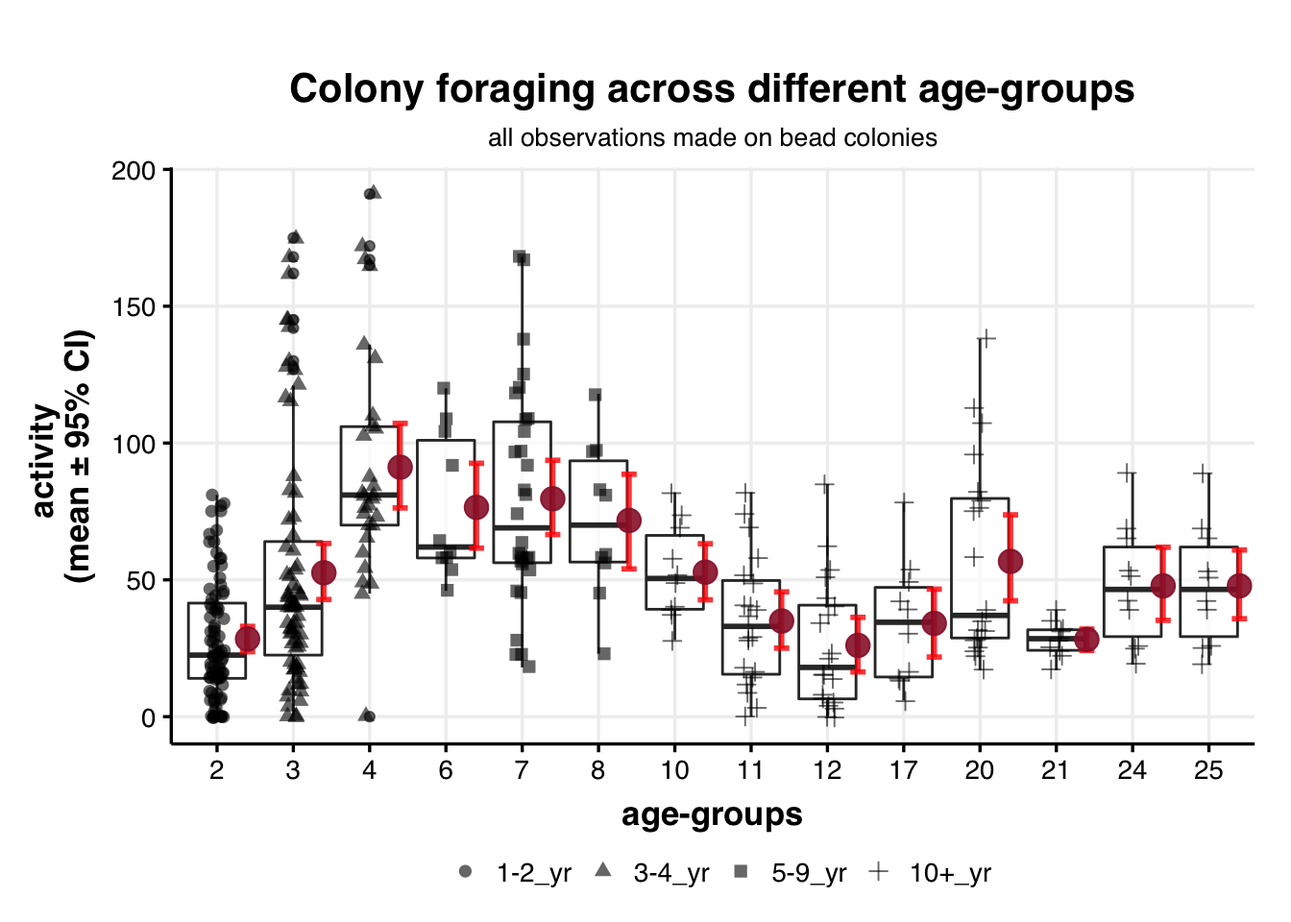
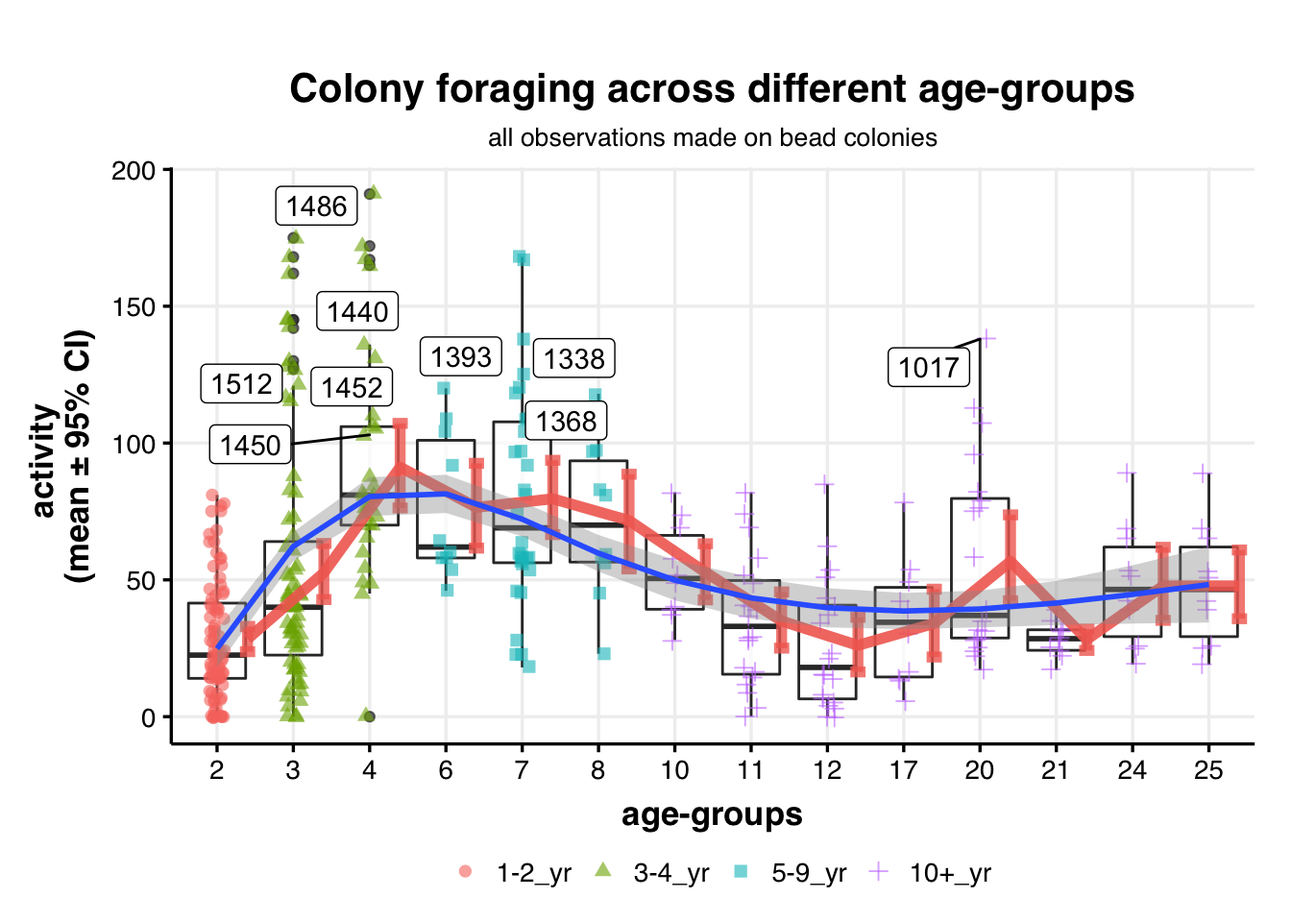
updated visualizations of foraging data

diff --git a/docs/bead_data_2022.html b/docs/bead_data_2022.html
@@ -443,7 +443,7 @@ div.tocify {
 
 
 <pre class="r"><code>## Set color scheme for age classes
-age_colors &lt;- c(&quot;#4EB9E6&quot;, &quot;#397362&quot;, &quot;#999215&quot;, &quot;#991D34&quot;, &quot;#F29544&quot;)</code></pre>
+age_colors &lt;- c(&quot;#8D72A1&quot;, &quot;#F26C7F&quot;, &quot;#FBAD73&quot;, &quot;#9CD5A2&quot;, &quot;#F29544&quot;)</code></pre>
 <div id="overviewgoals" class="section level2">
 <h2>Overview/Goals</h2>
 <p>Email from Deborah:</p>
@@ -1051,7 +1051,7 @@ for.dat &lt;-
 
 colnames(for.dat) &lt;- column.names
 
-tidy.for &lt;-
+tidy.for.2022 &lt;-
   for.dat %&gt;% 
   # remove columns containing first and second obs
   select(-first_obs, -second_obs, -was_it_raining) %&gt;% 
@@ -1081,8 +1081,8 @@ tidy.for &lt;-
          inout2,
          n_ants, tot_in, tot_out, everything())
 
-all.dates &lt;- tidy.for %&gt;% pull(date) %&gt;% na.omit() %&gt;% unique()
-date.max &lt;- tidy.for %&gt;% pull(date) %&gt;% na.omit() %&gt;% max()</code></pre>
+all.dates &lt;- tidy.for.2022 %&gt;% pull(date) %&gt;% na.omit() %&gt;% unique()
+date.max &lt;- tidy.for.2022 %&gt;% pull(date) %&gt;% na.omit() %&gt;% max()</code></pre>
 <p>The task is to obtain the foraging (in and out) data for each of the bead colonies, for the duration of the different experimental rounds.</p>
 <blockquote>
 <p>pink: 8/16/2022; green: 8/22/22; blue: 8/26/22</p>
@@ -1102,7 +1102,7 @@ bead.dates &lt;- data.frame(date = which.dates,
 bead.colonies &lt;- tidydat %&gt;% pull(colonyID) %&gt;% unique()
 which.day.obs &lt;- bead.dates %&gt;% mutate(date_obs = paste0(date, obs_day)) %&gt;% pull(date_obs)
 
-tidy.for %&lt;&gt;% 
+tidy.for &lt;- tidy.for.2022 %&gt;% 
   
   mutate(date = as.character(date)) %&gt;% 
   filter(date %in% unique(as.character(bead.dates$date))) %&gt;% 
@@ -1193,7 +1193,8 @@ s.tidydat &lt;-
                                        &quot;5-9_yr&quot;, &quot;10+_yr&quot;)))</code></pre>
 <div id="compare-foraging-across-age-class" class="section level3">
 <h3>Compare foraging across age-class</h3>
-<pre class="r"><code>s.tidydat %&gt;% 
+<pre class="r"><code>## Plot 1
+s.tidydat %&gt;% 
   select(colonyID, bead_color, age_obs, age_class, foraging_30s) %&gt;% 
   distinct() %&gt;%
   
@@ -1202,14 +1203,14 @@ s.tidydat &lt;-
   
   ggplot(aes(x=as.factor(age_obs), y=foraging_30s)) +
   
-  geom_violin(alpha=0.7) +
+  geom_boxplot(alpha=0.7, outlier.color = NA) +
     
     geom_jitter(width = 0.1, size=3, alpha=0.6, 
                 aes(fill=as.factor(colonyID)), 
                 shape=21) +
   
     
-    # facet_wrap(bead_color~., nrow = 2) +
+    geom_smooth(method = &quot;gam&quot;, aes(group=1)) +
     
     # stat_summary(fun = mean, geom = &quot;point&quot;, col=&quot;black&quot;,
     #              size=10, alpha=0.8,
@@ -1235,7 +1236,8 @@ s.tidydat &lt;-
           legend.title = element_blank()) +
     theme(legend.position=&quot;bottom&quot;)</code></pre>
 <p><img src="bead_data_2022_files/figure-html/plot_foraging_ageclass-1.png" width="672" /></p>
-<pre class="r"><code>which.colonies &lt;- s.tidydat %&gt;% select(colonyID, age_obs, age_class) %&gt;% distinct()
+<pre class="r"><code>## Plot 2
+which.colonies &lt;- s.tidydat %&gt;% select(colonyID, age_obs, age_class) %&gt;% distinct()
 
 tidy.for %&gt;% 
   select(date, colonyID=colony_ID, foraging_30s) %&gt;% 
@@ -1246,20 +1248,21 @@ tidy.for %&gt;%
   geom_boxplot(alpha=0.7) +
     
     geom_jitter(width = 0.1, size=2, alpha=0.6, 
-                aes(shape=as.factor(age_class))) +
+                aes(shape=as.factor(age_class), col=as.factor(age_class))) +
   
     
-    # facet_wrap(bead_color~., nrow = 2) +
-    
-  stat_summary(fun.data = mean_cl_boot,
-                 col=&quot;red&quot;,
-                 size=1, alpha = 0.8,
+    stat_summary(fun.data = mean_cl_boot,
+                 col=&quot;#F26C60&quot;,
+                 size=2, alpha = 0.8,
                  geom = &quot;errorbar&quot;, width = 0.2, fun.args = list(conf.int = 0.95),
                  position=position_nudge(x = 0.4, y = 0)) +
-  stat_summary(fun = mean, geom = &quot;point&quot;, 
-               col=age_colors[4],
-                 size=4, alpha=0.9,
+  stat_summary(fun = mean, geom = &quot;line&quot;, 
+               aes(group=1),
+               col=&quot;#F26C60&quot;,
+                 size=2, alpha=0.9,
                  position=position_nudge(x = 0.4, y = 0)) +
+  # geom_smooth(method = &quot;gam&quot;, aes(group=1)) +
+  geom_smooth(method = &quot;gam&quot;, aes(group=1), formula = y ~ splines::ns(x, 3)) +
 
     theme_Publication(base_size = 13) +
 
@@ -1272,11 +1275,82 @@ tidy.for %&gt;%
     # scale_fill_discrete() +
 
     # theme(legend.position=&quot;none&quot;) +
-
     theme(plot.subtitle=element_text(hjust=0.5, size=10),
           legend.title = element_blank()) +
-    theme(legend.position=&quot;bottom&quot;)</code></pre>
+    theme(legend.position=&quot;bottom&quot;) +
+  
+    ## add text labels
+    ggrepel::geom_label_repel(data = . %&gt;% 
+                    mutate(label = ifelse(foraging_30s &gt; 100,
+                                          colonyID, &quot;&quot;)) %&gt;% 
+                    group_by(colonyID) %&gt;% 
+                    mutate_at(vars(label), funs(replace(., duplicated(.), &quot;&quot;))),
+                    force = 11,
+                    aes(label = label), 
+                    box.padding = 0.3,
+                    show.legend = FALSE)</code></pre>
 <p><img src="bead_data_2022_files/figure-html/plot_foraging_ageclass-2.png" width="672" /></p>
+<pre class="r"><code>## Plot 3
+tidy.for.2022 %&gt;% 
+  mutate(colony_ID = as.numeric(as.character(colony_ID))) %&gt;% 
+  right_join(colony.dat %&gt;% select(colony_ID = colonyID, age_2022)) %&gt;% 
+  na.omit() %&gt;% 
+  mutate(age_obs = age_2022) %&gt;% 
+  mutate(age_class = ifelse(age_obs &lt;= 2, &quot;1-2_yr&quot;,
+                            ifelse(age_obs &gt; 2 &amp; age_obs &lt;= 4, &quot;3-4_yr&quot;,
+                                   ifelse(age_obs &gt;=5 &amp; age_obs &lt; 10, &quot;5-9_yr&quot;,
+                                                 &quot;10+_yr&quot;)))) %&gt;% 
+  mutate(age_class = factor(age_class, 
+                            levels = c(&quot;1-2_yr&quot;, &quot;3-4_yr&quot;,
+                                       &quot;5-9_yr&quot;, &quot;10+_yr&quot;))) %&gt;% 
+  
+  ## test labels
+  # mutate(label = ifelse(foraging_30s &gt; 200,
+  #                                         colony_ID, &quot;&quot;)) %&gt;% 
+  #                   group_by(colony_ID) %&gt;%
+  #                   mutate_at(vars(label), funs(replace(., duplicated(.), &quot;&quot;)))
+  
+  # mutate(foraging_30s = log2(foraging_30s+1)) %&gt;% 
+  
+  ggplot(aes(x=as.factor(age_obs), y=foraging_30s)) +
+  geom_boxplot(alpha=0.4, fill=&quot;#C5E4BA&quot;) +
+  geom_jitter(width = 0.2, size=1, alpha=0.2, 
+                aes(shape=as.factor(age_class), col=as.factor(age_class))) +
+  stat_summary(fun.data = mean_cl_boot,
+                 col=&quot;#F26C60&quot;,
+                 size=2, alpha = 0.8,
+                 geom = &quot;errorbar&quot;, width = 0.2, fun.args = list(conf.int = 0.95),
+                 position=position_nudge(x = 0.4, y = 0)) +
+  stat_summary(fun = mean, geom = &quot;line&quot;, 
+               aes(group=1),
+               col=&quot;#F26C60&quot;,
+                 size=2, alpha=0.9,
+                 position=position_nudge(x = 0.4, y = 0)) +
+  geom_smooth(method = &quot;gam&quot;, aes(group=1)) +
+    theme_Publication(base_size = 13) +
+    labs(title = &quot;Colony foraging across different age-groups&quot;,
+       subtitle = &quot;all observations of colony foraging in 2022&quot;,
+       y = &quot;activity \n(mean ± 95% CI)&quot;,
+       x = &quot;age-groups&quot;,
+       caption = &quot;red line indicates mean ± 95% CI; \nblue line shows a GAM fit; \nlabels indicate colonies with activity more than 150 ants/30 secs&quot;) +
+    # ylim(c(0,200)) +
+    theme(plot.subtitle=element_text(hjust=0.5, size=10),
+          plot.caption = element_text(hjust=1, size=10),
+          legend.title = element_blank()) +
+    theme(legend.position=&quot;bottom&quot;) +
+  
+    ## add text labels
+    ggrepel::geom_label_repel(data = . %&gt;% 
+                    mutate(label = ifelse(foraging_30s &gt; 150,
+                                          colony_ID, &quot;&quot;)) %&gt;% 
+                    group_by(colony_ID) %&gt;% 
+                    mutate_at(vars(label), funs(replace(., duplicated(.), &quot;&quot;))),
+                    force = 1,
+                    size=2.5,
+                    aes(label = label), 
+                    box.padding = 0.3,
+                    show.legend = FALSE)</code></pre>
+<p><img src="bead_data_2022_files/figure-html/plot_foraging_ageclass-3.png" width="672" /></p>
 </div>
 <div id="plot-normalized-bead-returns" class="section level3">
 <h3>Plot normalized bead returns</h3>
@@ -1387,6 +1461,81 @@ s.tidydat %&gt;%
        caption = &quot;Note
        data shown for all three rounds of bead experiment&quot;)</code></pre>
 <p><img src="bead_data_2022_files/figure-html/plot_normalized_bead_returns-3.png" width="672" /></p>
+<blockquote>
+<p>I am wondering how would it look if I plot the curves for each age.</p>
+</blockquote>
+<pre class="r"><code>s.tidydat %&gt;% 
+  
+  # ## remove the timepoints that we do not have data for  
+  # filter(!(bead_color==&quot;pink&quot; &amp; counted_when == &quot;D1_aN&quot;)) %&gt;%
+  # filter(!(bead_color==&quot;green&quot; &amp; counted_when == &quot;D3_bN&quot;)) %&gt;%
+  
+  ggplot(aes(x=counted_when, y=s_cum_prop, 
+             fill=as.factor(age_obs), color=as.factor(age_obs), group=as.factor(age_obs))) +
+  geom_jitter(size=2, alpha=0.4, width = 0.2) +
+  # geom_line(aes(group=colonyID), size=0.5, alpha=0.7) +
+  # geom_boxplot(alpha=0.3, aes(group=age_class)) +
+  # geom_violin(alpha=0.3) +
+  # geom_smooth(method = &quot;gam&quot;, formula=y~s(x, k=5)) +
+  geom_smooth(method = &quot;lm&quot;, formula = y~log2(x+1), 
+              alpha=0.4, size = 2,
+              aes(color=as.factor(age_obs))) +
+  
+  facet_grid(~age_class) +
+  # coord_flip() +
+  # scale_y_continuous(n.breaks = 3, labels = c(&quot;&quot;,&quot;0.5&quot;, &quot;1&quot;)) +
+  
+  theme_Publication(base_size = 15) +
+  # rotate x-axis lables
+  theme(axis.text.x=element_text(angle=90,hjust=1))+
+  
+  scale_fill_viridis_d() +
+  scale_color_viridis_d() +
+  
+  labs(x = &quot;Day-time of observation&quot;,
+       y= &quot;cumulative proportion \nof beads returned&quot;,
+       subtitle = &quot;Line indicates y ~ log2(x+1) + 95% CI&quot;,
+       caption = &quot;Note
+       data shown for all three rounds of bead experiment&quot;)</code></pre>
+<p><img src="bead_data_2022_files/figure-html/plot_with_age-1.png" width="672" /></p>
+<blockquote>
+<p>What about colony variation withih each age-class</p>
+</blockquote>
+<pre class="r"><code>s.tidydat %&gt;% 
+  
+  # ## remove the timepoints that we do not have data for  
+  # filter(!(bead_color==&quot;pink&quot; &amp; counted_when == &quot;D1_aN&quot;)) %&gt;%
+  # filter(!(bead_color==&quot;green&quot; &amp; counted_when == &quot;D3_bN&quot;)) %&gt;%
+  
+  ggplot(aes(x=counted_when, y=s_cum_prop, 
+             fill=as.factor(colonyID), color=as.factor(colonyID), group=as.factor(colonyID))) +
+  geom_jitter(size=2, alpha=0.4, width = 0.2) +
+  # geom_line(aes(group=colonyID), size=0.5, alpha=0.7) +
+  # geom_boxplot(alpha=0.3, aes(group=age_class)) +
+  # geom_violin(alpha=0.3) +
+  # geom_smooth(method = &quot;gam&quot;, formula=y~s(x, k=5)) +
+  geom_smooth(method = &quot;lm&quot;, formula = y~log2(x+1), 
+              alpha=0.4, size = 2,
+              aes(color=as.factor(colonyID))) +
+  
+  facet_grid(~age_class) +
+  # coord_flip() +
+  # scale_y_continuous(n.breaks = 3, labels = c(&quot;&quot;,&quot;0.5&quot;, &quot;1&quot;)) +
+  
+  theme_Publication(base_size = 15) +
+  # rotate x-axis lables
+  theme(axis.text.x=element_text(angle=90,hjust=1))+
+  
+  scale_fill_viridis_d() +
+  scale_color_viridis_d() +
+  
+  labs(x = &quot;Day-time of observation&quot;,
+       y= &quot;cumulative proportion \nof beads returned&quot;,
+       subtitle = &quot;Line indicates y ~ log2(x+1) + 95% CI&quot;,
+       caption = &quot;Note
+       data shown for all three rounds of bead experiment&quot;)</code></pre>
+<p><img src="bead_data_2022_files/figure-html/plot_with_age_2-1.png" width="672" /></p>
+<hr />
 </div>
 </div>
 <div id="prelim-analyses-i" class="section level2">
@@ -1449,8 +1598,8 @@ afex::mixed(log_s_cum_prop ~ age_class + counted_when + (1|colonyID) + (1|bead_c
 <pre class="r"><code>s.tidydat %&gt;% 
   select(colonyID, age_obs, bead_color, date, counted_when, cum_prop, s_cum_prop) %&gt;% 
   DT::datatable(rownames = F)</code></pre>
-<div id="htmlwidget-c10230ad0bd027ecd31b" style="width:100%;height:auto;" class="datatables html-widget"></div>
-<script type="application/json" data-for="htmlwidget-c10230ad0bd027ecd31b">{"x":{"filter":"none","data":[["810","810","810","810","810","810","922","922","922","922","922","922","961","961","961","969","969","969","1131","1131","1131","1131","1131","1131","1288","1288","1288","1338","1338","1338","1368","1368","1368","1393","1393","1393","1581","1581","1581","1581","1587","1587","1587","1587","1570","1570","1570","1570","1541","1541","1541","1541","1542","1542","1542","1542","1571","1571","1571","1571","1536","1536","1536","1536","1536","1536","1536","1536","1587","1587","1587","1587","1587","1570","1570","1570","1570","1570","1541","1541","1541","1541","1541","1542","1542","1542","1542","1542","1533","1533","1533","1533","1533","1552","1552","1552","1552","1552","1581","1581","1581","1581","1581","1587","1587","1587","1587","1587","1541","1541","1541","1541","1541","1542","1542","1542","1542","1542","1536","1536","1536","1536","1536","1533","1533","1533","1533","1533","1504","1504","1504","1504","1506","1506","1506","1506","1512","1512","1512","1512","1559","1559","1559","1559","1486","1486","1486","1486","1504","1504","1504","1504","1504","1506","1506","1506","1506","1506","1512","1512","1512","1512","1512","1559","1559","1559","1559","1559","1486","1486","1486","1486","1486","1503","1503","1503","1503","1503","1512","1512","1512","1512","1512","1559","1559","1559","1559","1559","1546","1546","1546","1546","1546","1486","1486","1486","1486","1486","1503","1503","1503","1503","1503","1452","1452","1452","1452","1450","1450","1450","1450","1440","1440","1440","1440","1452","1452","1452","1452","1452","1450","1450","1450","1450","1450","1452","1452","1452","1452","1452","1450","1450","1450","1450","1450","1440","1440","1440","1440","1440","1393","1393","1393","1393","1393","1393","1393","1393","1393","1393","1368","1368","1368","1368","1368","1368","1368","1368","1368","1368","1368","1368","1368","1368","1288","1288","1288","1288","1317","1317","1317","1317","1317","1288","1288","1288","1288","1288","1233","1233","1233","1233","1242","1242","1242","1242","1233","1233","1233","1233","1233","1242","1242","1242","1242","1242","1233","1233","1233","1233","1233","1242","1242","1242","1242","1242","1107","1107","1107","1107","1107","1107","1107","1107","1107","1017","1017","1017","1017","1017","1017","1017","1017","1017","1017","1131","1131","1131","1131","1131","1131","1131","1131","1131","810","810","810","810","810","810","810","810","810","810","810","810","810","810"],[24,24,24,24,24,24,21,21,21,21,21,21,21,21,21,21,21,21,20,20,20,20,20,20,10,10,10,7,7,7,7,7,7,6,6,6,2,2,2,2,2,2,2,2,2,2,2,2,2,2,2,2,2,2,2,2,2,2,2,2,2,2,2,2,2,2,2,2,2,2,2,2,2,2,2,2,2,2,2,2,2,2,2,2,2,2,2,2,2,2,2,2,2,2,2,2,2,2,2,2,2,2,2,2,2,2,2,2,2,2,2,2,2,2,2,2,2,2,2,2,2,2,2,2,2,2,2,2,3,3,3,3,3,3,3,3,3,3,3,3,3,3,3,3,3,3,3,3,3,3,3,3,3,3,3,3,3,3,3,3,3,3,3,3,3,3,3,3,3,3,3,3,3,3,3,3,3,3,3,3,3,3,3,3,3,3,3,3,3,3,3,3,3,3,3,3,3,3,3,3,3,3,3,4,4,4,4,4,4,4,4,4,4,4,4,4,4,4,4,4,4,4,4,4,4,4,4,4,4,4,4,4,4,4,4,4,4,4,4,4,7,7,7,7,7,7,7,7,7,7,8,8,8,8,8,8,8,8,8,8,8,8,8,8,11,11,11,11,11,11,11,11,11,11,11,11,11,11,12,12,12,12,12,12,12,12,12,12,12,12,12,12,12,12,12,12,12,12,12,12,12,12,12,12,12,12,17,17,17,17,17,17,17,17,17,20,20,20,20,20,20,20,20,20,20,21,21,21,21,21,21,21,21,21,25,25,25,25,25,25,25,25,25,25,25,25,25,25],["green-21","green-21","green-21","pink-21","pink-21","pink-21","green-21","green-21","green-21","pink-21","pink-21","pink-21","green-21","green-21","green-21","green-21","green-21","green-21","green-21","green-21","green-21","pink-21","pink-21","pink-21","pink-21","pink-21","pink-21","green-21","green-21","green-21","pink-21","pink-21","pink-21","green-21","green-21","green-21","pink","pink","pink","pink","pink","pink","pink","pink","pink","pink","pink","pink","pink","pink","pink","pink","pink","pink","pink","pink","pink","pink","pink","pink","pink","pink","pink","pink","pink","pink","pink","pink","green","green","green","green","green","green","green","green","green","green","green","green","green","green","green","green","green","green","green","green","green","green","green","green","green","blue","blue","blue","blue","blue","blue","blue","blue","blue","blue","blue","blue","blue","blue","blue","blue","blue","blue","blue","blue","blue","blue","blue","blue","blue","blue","blue","blue","blue","blue","blue","blue","blue","blue","blue","pink","pink","pink","pink","pink","pink","pink","pink","pink","pink","pink","pink","pink","pink","pink","pink","pink","pink","pink","pink","green","green","green","green","green","green","green","green","green","green","green","green","green","green","green","green","green","green","green","green","green","green","green","green","green","green","green","green","green","green","blue","blue","blue","blue","blue","blue","blue","blue","blue","blue","blue","blue","blue","blue","blue","blue","blue","blue","blue","blue","blue","blue","blue","blue","blue","pink","pink","pink","pink","pink","pink","pink","pink","pink","pink","pink","pink","green","green","green","green","green","green","green","green","green","green","blue","blue","blue","blue","blue","blue","blue","blue","blue","blue","blue","blue","blue","blue","blue","green","green","green","green","green","blue","blue","blue","blue","blue","pink","pink","pink","pink","green","green","green","green","green","blue","blue","blue","blue","blue","pink","pink","pink","pink","blue","blue","blue","blue","blue","blue","blue","blue","blue","blue","pink","pink","pink","pink","pink","pink","pink","pink","green","green","green","green","green","green","green","green","green","green","blue","blue","blue","blue","blue","blue","blue","blue","blue","blue","pink","pink","pink","pink","green","green","green","green","green","green","green","green","green","green","blue","blue","blue","blue","blue","pink","pink","pink","pink","green","green","green","green","green","pink","pink","pink","pink","green","green","green","green","green","blue","blue","blue","blue","blue"],["2021-08-24","2021-08-25","2021-08-26","2021-08-26","2021-08-27","2021-08-28","2021-08-23","2021-08-24","2021-08-25","2021-08-25","2021-08-26","2021-08-27","2021-08-24","2021-08-25","2021-08-26","2021-08-24","2021-08-25","2021-08-26","2021-08-23","2021-08-24","2021-08-25","2021-08-25","2021-08-26","2021-08-27","2021-08-26","2021-08-27","2021-08-28","2021-08-23","2021-08-24","2021-08-25","2021-08-25","2021-08-26","2021-08-27","2021-08-23","2021-08-24","2021-08-25","2022-08-16","2022-08-16","2022-08-16","2022-08-16","2022-08-16","2022-08-16","2022-08-16","2022-08-16","2022-08-16","2022-08-16","2022-08-16","2022-08-16","2022-08-16","2022-08-16","2022-08-16","2022-08-16","2022-08-16","2022-08-16","2022-08-16","2022-08-16","2022-08-16","2022-08-16","2022-08-16","2022-08-16","2022-08-16","2022-08-16","2022-08-16","2022-08-16","2022-08-16","2022-08-16","2022-08-16","2022-08-16","2022-08-22","2022-08-22","2022-08-22","2022-08-22","2022-08-22","2022-08-22","2022-08-22","2022-08-22","2022-08-22","2022-08-22","2022-08-22","2022-08-22","2022-08-22","2022-08-22","2022-08-22","2022-08-22","2022-08-22","2022-08-22","2022-08-22","2022-08-22","2022-08-22","2022-08-22","2022-08-22","2022-08-22","2022-08-22","2022-08-26","2022-08-26","2022-08-26","2022-08-26","2022-08-26","2022-08-26","2022-08-26","2022-08-26","2022-08-26","2022-08-26","2022-08-26","2022-08-26","2022-08-26","2022-08-26","2022-08-26","2022-08-26","2022-08-26","2022-08-26","2022-08-26","2022-08-26","2022-08-26","2022-08-26","2022-08-26","2022-08-26","2022-08-26","2022-08-26","2022-08-26","2022-08-26","2022-08-26","2022-08-26","2022-08-26","2022-08-26","2022-08-26","2022-08-26","2022-08-26","2022-08-16","2022-08-16","2022-08-16","2022-08-16","2022-08-16","2022-08-16","2022-08-16","2022-08-16","2022-08-16","2022-08-16","2022-08-16","2022-08-16","2022-08-16","2022-08-16","2022-08-16","2022-08-16","2022-08-16","2022-08-16","2022-08-16","2022-08-16","2022-08-22","2022-08-22","2022-08-22","2022-08-22","2022-08-22","2022-08-22","2022-08-22","2022-08-22","2022-08-22","2022-08-22","2022-08-22","2022-08-22","2022-08-22","2022-08-22","2022-08-22","2022-08-22","2022-08-22","2022-08-22","2022-08-22","2022-08-22","2022-08-22","2022-08-22","2022-08-22","2022-08-22","2022-08-22","2022-08-22","2022-08-22","2022-08-22","2022-08-22","2022-08-22","2022-08-26","2022-08-26","2022-08-26","2022-08-26","2022-08-26","2022-08-26","2022-08-26","2022-08-26","2022-08-26","2022-08-26","2022-08-26","2022-08-26","2022-08-26","2022-08-26","2022-08-26","2022-08-26","2022-08-26","2022-08-26","2022-08-26","2022-08-26","2022-08-26","2022-08-26","2022-08-26","2022-08-26","2022-08-26","2022-08-16","2022-08-16","2022-08-16","2022-08-16","2022-08-16","2022-08-16","2022-08-16","2022-08-16","2022-08-16","2022-08-16","2022-08-16","2022-08-16","2022-08-22","2022-08-22","2022-08-22","2022-08-22","2022-08-22","2022-08-22","2022-08-22","2022-08-22","2022-08-22","2022-08-22","2022-08-26","2022-08-26","2022-08-26","2022-08-26","2022-08-26","2022-08-26","2022-08-26","2022-08-26","2022-08-26","2022-08-26","2022-08-26","2022-08-26","2022-08-26","2022-08-26","2022-08-26","2022-08-22","2022-08-22","2022-08-22","2022-08-22","2022-08-22","2022-08-26","2022-08-26","2022-08-26","2022-08-26","2022-08-26","2022-08-16","2022-08-16","2022-08-16","2022-08-16","2022-08-22","2022-08-22","2022-08-22","2022-08-22","2022-08-22","2022-08-26","2022-08-26","2022-08-26","2022-08-26","2022-08-26","2022-08-16","2022-08-16","2022-08-16","2022-08-16","2022-08-26","2022-08-26","2022-08-26","2022-08-26","2022-08-26","2022-08-26","2022-08-26","2022-08-26","2022-08-26","2022-08-26","2022-08-16","2022-08-16","2022-08-16","2022-08-16","2022-08-16","2022-08-16","2022-08-16","2022-08-16","2022-08-22","2022-08-22","2022-08-22","2022-08-22","2022-08-22","2022-08-22","2022-08-22","2022-08-22","2022-08-22","2022-08-22","2022-08-26","2022-08-26","2022-08-26","2022-08-26","2022-08-26","2022-08-26","2022-08-26","2022-08-26","2022-08-26","2022-08-26","2022-08-16","2022-08-16","2022-08-16","2022-08-16","2022-08-22","2022-08-22","2022-08-22","2022-08-22","2022-08-22","2022-08-22","2022-08-22","2022-08-22","2022-08-22","2022-08-22","2022-08-26","2022-08-26","2022-08-26","2022-08-26","2022-08-26","2022-08-16","2022-08-16","2022-08-16","2022-08-16","2022-08-22","2022-08-22","2022-08-22","2022-08-22","2022-08-22","2022-08-16","2022-08-16","2022-08-16","2022-08-16","2022-08-22","2022-08-22","2022-08-22","2022-08-22","2022-08-22","2022-08-26","2022-08-26","2022-08-26","2022-08-26","2022-08-26"],["D1_bN","D2_bN","D3_bN","D1_bN","D2_bN","D3_bN","D1_bN","D2_bN","D3_bN","D1_bN","D2_bN","D3_bN","D1_bN","D2_bN","D3_bN","D1_bN","D2_bN","D3_bN","D1_bN","D2_bN","D3_bN","D1_bN","D2_bN","D3_bN","D1_bN","D2_bN","D3_bN","D1_bN","D2_bN","D3_bN","D1_bN","D2_bN","D3_bN","D1_bN","D2_bN","D3_bN","D1_bN","D2_M","D2_bN","D3_bN","D1_bN","D2_M","D2_bN","D3_bN","D1_bN","D2_M","D2_bN","D3_bN","D1_bN","D2_M","D2_bN","D3_bN","D1_bN","D2_M","D2_bN","D3_bN","D1_bN","D2_M","D2_bN","D3_bN","D1_bN","D1_bN","D2_M","D2_M","D2_bN","D2_bN","D3_bN","D3_bN","D1_bN","D1_aN","D2_M","D2_bN","D4_bN","D1_bN","D1_aN","D2_M","D2_bN","D4_bN","D1_bN","D1_aN","D2_M","D2_bN","D4_bN","D1_bN","D1_aN","D2_M","D2_bN","D4_bN","D1_bN","D1_aN","D2_M","D2_bN","D4_bN","D1_bN","D2_M","D2_aN","D3_bN","D4_M","D1_bN","D2_M","D2_aN","D3_bN","D4_M","D1_bN","D2_M","D2_aN","D3_bN","D4_M","D1_bN","D2_M","D2_aN","D3_bN","D4_M","D1_bN","D2_M","D2_aN","D3_bN","D4_M","D1_bN","D2_M","D2_aN","D3_bN","D4_M","D1_bN","D2_M","D2_aN","D3_bN","D4_M","D1_bN","D2_M","D2_bN","D3_bN","D1_bN","D2_M","D2_bN","D3_bN","D1_bN","D2_M","D2_bN","D3_bN","D1_bN","D2_M","D2_bN","D3_bN","D1_bN","D2_M","D2_bN","D3_bN","D1_bN","D1_aN","D2_M","D2_bN","D4_bN","D1_bN","D1_aN","D2_M","D2_bN","D4_bN","D1_bN","D1_aN","D2_M","D2_bN","D4_bN","D1_bN","D1_aN","D2_M","D2_bN","D4_bN","D1_bN","D1_aN","D2_M","D2_bN","D4_bN","D1_bN","D1_aN","D2_M","D2_bN","D4_bN","D1_bN","D2_M","D2_aN","D3_bN","D4_M","D1_bN","D2_M","D2_aN","D3_bN","D4_M","D1_bN","D2_M","D2_aN","D3_bN","D4_M","D1_bN","D2_M","D2_aN","D3_bN","D4_M","D1_bN","D2_M","D2_aN","D3_bN","D4_M","D1_bN","D2_M","D2_bN","D3_bN","D1_bN","D2_M","D2_bN","D3_bN","D1_bN","D2_M","D2_bN","D3_bN","D1_bN","D1_aN","D2_M","D2_bN","D4_bN","D1_bN","D1_aN","D2_M","D2_bN","D4_bN","D1_bN","D2_M","D2_aN","D3_bN","D4_M","D1_bN","D2_M","D2_aN","D3_bN","D4_M","D1_bN","D2_M","D2_aN","D3_bN","D4_M","D1_bN","D1_aN","D2_M","D2_bN","D4_bN","D1_bN","D2_M","D2_aN","D3_bN","D4_M","D1_bN","D2_M","D2_bN","D3_bN","D1_bN","D1_aN","D2_M","D2_bN","D4_bN","D1_bN","D2_M","D2_aN","D3_bN","D4_M","D1_bN","D2_M","D2_bN","D3_bN","D1_bN","D2_M","D2_aN","D3_bN","D4_M","D1_bN","D2_M","D2_aN","D3_bN","D4_M","D1_bN","D2_M","D2_bN","D3_bN","D1_bN","D2_M","D2_bN","D3_bN","D1_bN","D1_aN","D2_M","D2_bN","D4_bN","D1_bN","D1_aN","D2_M","D2_bN","D4_bN","D1_bN","D2_M","D2_aN","D3_bN","D4_M","D1_bN","D2_M","D2_aN","D3_bN","D4_M","D1_bN","D2_M","D2_bN","D3_bN","D1_bN","D1_aN","D2_M","D2_bN","D4_bN","D1_bN","D1_aN","D2_M","D2_bN","D4_bN","D1_bN","D2_M","D2_aN","D3_bN","D4_M","D1_bN","D2_M","D2_bN","D3_bN","D1_bN","D1_aN","D2_M","D2_bN","D4_bN","D1_bN","D2_M","D2_bN","D3_bN","D1_bN","D1_aN","D2_M","D2_bN","D4_bN","D1_bN","D2_M","D2_aN","D3_bN","D4_M"],[0.6,0.92,0.98,0.58,0.76,0.88,0.8,0.8,0.82,0.62,0.7,0.74,0.36,0.78,0.88,0.52,0.92,0.94,0.22,0.58,0.72,0.64,0.7,0.76,0.92,0.96,1,0.6,0.74,0.82,0.7,0.775,0.775,0.96,0.96,0.98,0.59,0.64,0.74,0.76,0.6,0.6,0.86,0.88,0.06,0.33,0.62,0.74,0.2,0.28,0.44,0.46,0.65,0.85,0.87,0.87,0.06,0.58,0.87,0.87,0.04,0.04,0.33,0.33,0.44,0.44,0.53,0.53,0.28,0.64,0.7,0.7,0.76,0.4,0.64,0.66,0.7,0.78,0.58,0.92,0.94,0.96,1,0.22,0.74,0.84,0.84,0.86,0.88,1.08,1.14,1.14,1.14,0.73,0.85,0.87,0.85,0.85,0.76,0.86,0.9,0.86,0.86,0.5,0.56,0.62,0.62,0.64,0.08,0.68,0.82,0.68,0.74,0.22,0.74,0.8,0.76,0.76,0,0.42,0.48,0.52,0.6,0.82,0.88,0.88,0.92,0.92,0.44,0.58,0.6,0.64,0.14,0.5,0.62,0.74,0.44,0.44,0.72,0.72,0.34,0.36,0.68,0.82,0.5,0.56,0.82,0.82,0.19,0.59,0.69,0.71,0.71,0.36,0.68,0.76,0.86,0.86,0.45,0.61,0.67,0.77,0.79,0.8,0.9,0.9,0.92,0.96,0.3,0.36,0.36,0.36,0.38,0.57,0.75,0.77,0.77,0.77,0.26,0.84,0.84,0.88,0.88,0.36,0.84,0.94,0.88,0.88,0.16,0.66,0.72,0.72,0.74,0.16,0.42,0.72,0.54,0.6,0.04,0.66,0.8,0.74,0.74,0.02,0.18,0.28,0.42,0.41,0.45,0.57,0.63,0.48,0.7,0.7,0.88,0.44,0.44,0.68,0.68,0.82,0.42,0.8,0.8,0.82,0.82,0.16,0.78,0.78,0.8,0.82,0.2,0.88,0.92,0.88,0.88,0.9,1.02,1.02,1.02,1.02,0.28,0.62,0.64,0.68,0.68,0.54,0.62,0.68,0.66,0.66,0.4,0.5,0.62,0.72,0.6,0.72,0.94,0.96,0.96,0.94,0.96,0.96,0.96,0.96,0.34,0.58,0.58,0.6,0,0.19,0.19,0.28,0.28,0.38,0.72,0.76,0.74,0.74,0.12,0.42,0.78,0.82,0,0,0.06,0.1,0.56,0.88,0.9,0.92,0.92,0.04,0.32,0.32,0.36,0.4,0.7,0.88,0.94,0.9,0.9,0.12,0.48,0.56,0.54,0.64,0.04,0.22,0.8,0.8,0.22,0.22,0.32,0.42,0.42,0.07,0.41,0.46,0.53,0.58,0.66,0.94,0.96,0.94,0.94,0.1,0.14,0.66,0.66,0,0.42,0.74,0.76,0.76,0.04,0.1,0.32,0.32,0.08,0.34,0.58,0.62,0.64,0.82,0.86,0.9,0.9,0.9],[0.02,0.03,0.03,0.01,0.02,0.02,0.04,0.04,0.04,0.02,0.02,0.02,0.01,0.03,0.04,0.02,0.04,0.04,0,0.01,0.01,0.01,0.01,0.01,0.02,0.02,0.02,0.01,0.01,0.01,0.02,0.03,0.03,0.01,0.01,0.01,0.01,0.01,0.02,0.02,0.05,0.05,0.07,0.07,0,0.01,0.02,0.03,0.01,0.01,0.02,0.02,0.01,0.01,0.01,0.01,0,0.04,0.06,0.06,0,0.01,0.01,0.07,0.01,0.09,0.01,0.11,0.04,0.08,0.09,0.09,0.1,0.02,0.03,0.03,0.03,0.04,0.01,0.02,0.02,0.02,0.02,0,0.01,0.01,0.01,0.01,0.02,0.02,0.02,0.02,0.02,0.05,0.05,0.05,0.05,0.05,0.04,0.05,0.05,0.05,0.05,0.06,0.06,0.07,0.07,0.07,0.01,0.05,0.06,0.05,0.05,0.01,0.02,0.02,0.02,0.02,0,0.06,0.07,0.07,0.09,0.02,0.02,0.02,0.02,0.02,0.01,0.01,0.01,0.01,0,0.02,0.02,0.02,0.01,0.01,0.02,0.02,0.01,0.01,0.01,0.02,0.01,0.01,0.02,0.02,0.01,0.02,0.02,0.02,0.02,0.01,0.02,0.02,0.03,0.03,0,0,0.01,0.01,0.01,0.01,0.01,0.01,0.01,0.01,0,0,0,0,0,0.03,0.04,0.05,0.05,0.05,0,0.01,0.01,0.01,0.01,0.01,0.02,0.02,0.02,0.02,0.01,0.03,0.04,0.04,0.04,0,0,0.01,0,0.01,0,0.02,0.02,0.02,0.02,0,0,0,0.01,0,0,0.01,0.01,0,0.01,0.01,0.01,0.01,0.01,0.01,0.01,0.01,0,0.01,0.01,0.01,0.01,0,0.01,0.01,0.01,0.01,0,0.02,0.02,0.02,0.02,0.01,0.01,0.01,0.01,0.01,0,0.01,0.01,0.01,0.01,0.01,0.01,0.01,0.01,0.01,0.01,0.01,0.01,0.01,0.01,0.01,0.02,0.02,0.02,0.01,0.01,0.01,0.01,0.01,0,0.01,0.01,0.01,0,0.02,0.02,0.03,0.03,0.01,0.03,0.03,0.03,0.03,0.01,0.02,0.04,0.04,0,0,0,0.01,0.01,0.02,0.02,0.02,0.02,0,0.04,0.04,0.04,0.05,0.03,0.04,0.04,0.04,0.04,0.02,0.07,0.08,0.08,0.09,0,0.01,0.02,0.02,0.04,0.04,0.05,0.07,0.07,0,0.01,0.01,0.01,0.01,0.01,0.01,0.01,0.01,0.01,0,0,0.02,0.02,0,0.02,0.03,0.03,0.03,0,0,0,0,0,0.01,0.01,0.01,0.02,0.04,0.05,0.05,0.05,0.05]],"container":"<table class=\"display\">\n  <thead>\n    <tr>\n      <th>colonyID<\/th>\n      <th>age_obs<\/th>\n      <th>bead_color<\/th>\n      <th>date<\/th>\n      <th>counted_when<\/th>\n      <th>cum_prop<\/th>\n      <th>s_cum_prop<\/th>\n    <\/tr>\n  <\/thead>\n<\/table>","options":{"columnDefs":[{"className":"dt-right","targets":[1,5,6]}],"order":[],"autoWidth":false,"orderClasses":false}},"evals":[],"jsHooks":[]}</script>
+<div id="htmlwidget-76567e9a3d0438143c61" style="width:100%;height:auto;" class="datatables html-widget"></div>
+<script type="application/json" data-for="htmlwidget-76567e9a3d0438143c61">{"x":{"filter":"none","data":[["810","810","810","810","810","810","922","922","922","922","922","922","961","961","961","969","969","969","1131","1131","1131","1131","1131","1131","1288","1288","1288","1338","1338","1338","1368","1368","1368","1393","1393","1393","1581","1581","1581","1581","1587","1587","1587","1587","1570","1570","1570","1570","1541","1541","1541","1541","1542","1542","1542","1542","1571","1571","1571","1571","1536","1536","1536","1536","1536","1536","1536","1536","1587","1587","1587","1587","1587","1570","1570","1570","1570","1570","1541","1541","1541","1541","1541","1542","1542","1542","1542","1542","1533","1533","1533","1533","1533","1552","1552","1552","1552","1552","1581","1581","1581","1581","1581","1587","1587","1587","1587","1587","1541","1541","1541","1541","1541","1542","1542","1542","1542","1542","1536","1536","1536","1536","1536","1533","1533","1533","1533","1533","1504","1504","1504","1504","1506","1506","1506","1506","1512","1512","1512","1512","1559","1559","1559","1559","1486","1486","1486","1486","1504","1504","1504","1504","1504","1506","1506","1506","1506","1506","1512","1512","1512","1512","1512","1559","1559","1559","1559","1559","1486","1486","1486","1486","1486","1503","1503","1503","1503","1503","1512","1512","1512","1512","1512","1559","1559","1559","1559","1559","1546","1546","1546","1546","1546","1486","1486","1486","1486","1486","1503","1503","1503","1503","1503","1452","1452","1452","1452","1450","1450","1450","1450","1440","1440","1440","1440","1452","1452","1452","1452","1452","1450","1450","1450","1450","1450","1452","1452","1452","1452","1452","1450","1450","1450","1450","1450","1440","1440","1440","1440","1440","1393","1393","1393","1393","1393","1393","1393","1393","1393","1393","1368","1368","1368","1368","1368","1368","1368","1368","1368","1368","1368","1368","1368","1368","1288","1288","1288","1288","1317","1317","1317","1317","1317","1288","1288","1288","1288","1288","1233","1233","1233","1233","1242","1242","1242","1242","1233","1233","1233","1233","1233","1242","1242","1242","1242","1242","1233","1233","1233","1233","1233","1242","1242","1242","1242","1242","1107","1107","1107","1107","1107","1107","1107","1107","1107","1017","1017","1017","1017","1017","1017","1017","1017","1017","1017","1131","1131","1131","1131","1131","1131","1131","1131","1131","810","810","810","810","810","810","810","810","810","810","810","810","810","810"],[24,24,24,24,24,24,21,21,21,21,21,21,21,21,21,21,21,21,20,20,20,20,20,20,10,10,10,7,7,7,7,7,7,6,6,6,2,2,2,2,2,2,2,2,2,2,2,2,2,2,2,2,2,2,2,2,2,2,2,2,2,2,2,2,2,2,2,2,2,2,2,2,2,2,2,2,2,2,2,2,2,2,2,2,2,2,2,2,2,2,2,2,2,2,2,2,2,2,2,2,2,2,2,2,2,2,2,2,2,2,2,2,2,2,2,2,2,2,2,2,2,2,2,2,2,2,2,2,3,3,3,3,3,3,3,3,3,3,3,3,3,3,3,3,3,3,3,3,3,3,3,3,3,3,3,3,3,3,3,3,3,3,3,3,3,3,3,3,3,3,3,3,3,3,3,3,3,3,3,3,3,3,3,3,3,3,3,3,3,3,3,3,3,3,3,3,3,3,3,3,3,3,3,4,4,4,4,4,4,4,4,4,4,4,4,4,4,4,4,4,4,4,4,4,4,4,4,4,4,4,4,4,4,4,4,4,4,4,4,4,7,7,7,7,7,7,7,7,7,7,8,8,8,8,8,8,8,8,8,8,8,8,8,8,11,11,11,11,11,11,11,11,11,11,11,11,11,11,12,12,12,12,12,12,12,12,12,12,12,12,12,12,12,12,12,12,12,12,12,12,12,12,12,12,12,12,17,17,17,17,17,17,17,17,17,20,20,20,20,20,20,20,20,20,20,21,21,21,21,21,21,21,21,21,25,25,25,25,25,25,25,25,25,25,25,25,25,25],["green-21","green-21","green-21","pink-21","pink-21","pink-21","green-21","green-21","green-21","pink-21","pink-21","pink-21","green-21","green-21","green-21","green-21","green-21","green-21","green-21","green-21","green-21","pink-21","pink-21","pink-21","pink-21","pink-21","pink-21","green-21","green-21","green-21","pink-21","pink-21","pink-21","green-21","green-21","green-21","pink","pink","pink","pink","pink","pink","pink","pink","pink","pink","pink","pink","pink","pink","pink","pink","pink","pink","pink","pink","pink","pink","pink","pink","pink","pink","pink","pink","pink","pink","pink","pink","green","green","green","green","green","green","green","green","green","green","green","green","green","green","green","green","green","green","green","green","green","green","green","green","green","blue","blue","blue","blue","blue","blue","blue","blue","blue","blue","blue","blue","blue","blue","blue","blue","blue","blue","blue","blue","blue","blue","blue","blue","blue","blue","blue","blue","blue","blue","blue","blue","blue","blue","blue","pink","pink","pink","pink","pink","pink","pink","pink","pink","pink","pink","pink","pink","pink","pink","pink","pink","pink","pink","pink","green","green","green","green","green","green","green","green","green","green","green","green","green","green","green","green","green","green","green","green","green","green","green","green","green","green","green","green","green","green","blue","blue","blue","blue","blue","blue","blue","blue","blue","blue","blue","blue","blue","blue","blue","blue","blue","blue","blue","blue","blue","blue","blue","blue","blue","pink","pink","pink","pink","pink","pink","pink","pink","pink","pink","pink","pink","green","green","green","green","green","green","green","green","green","green","blue","blue","blue","blue","blue","blue","blue","blue","blue","blue","blue","blue","blue","blue","blue","green","green","green","green","green","blue","blue","blue","blue","blue","pink","pink","pink","pink","green","green","green","green","green","blue","blue","blue","blue","blue","pink","pink","pink","pink","blue","blue","blue","blue","blue","blue","blue","blue","blue","blue","pink","pink","pink","pink","pink","pink","pink","pink","green","green","green","green","green","green","green","green","green","green","blue","blue","blue","blue","blue","blue","blue","blue","blue","blue","pink","pink","pink","pink","green","green","green","green","green","green","green","green","green","green","blue","blue","blue","blue","blue","pink","pink","pink","pink","green","green","green","green","green","pink","pink","pink","pink","green","green","green","green","green","blue","blue","blue","blue","blue"],["2021-08-24","2021-08-25","2021-08-26","2021-08-26","2021-08-27","2021-08-28","2021-08-23","2021-08-24","2021-08-25","2021-08-25","2021-08-26","2021-08-27","2021-08-24","2021-08-25","2021-08-26","2021-08-24","2021-08-25","2021-08-26","2021-08-23","2021-08-24","2021-08-25","2021-08-25","2021-08-26","2021-08-27","2021-08-26","2021-08-27","2021-08-28","2021-08-23","2021-08-24","2021-08-25","2021-08-25","2021-08-26","2021-08-27","2021-08-23","2021-08-24","2021-08-25","2022-08-16","2022-08-16","2022-08-16","2022-08-16","2022-08-16","2022-08-16","2022-08-16","2022-08-16","2022-08-16","2022-08-16","2022-08-16","2022-08-16","2022-08-16","2022-08-16","2022-08-16","2022-08-16","2022-08-16","2022-08-16","2022-08-16","2022-08-16","2022-08-16","2022-08-16","2022-08-16","2022-08-16","2022-08-16","2022-08-16","2022-08-16","2022-08-16","2022-08-16","2022-08-16","2022-08-16","2022-08-16","2022-08-22","2022-08-22","2022-08-22","2022-08-22","2022-08-22","2022-08-22","2022-08-22","2022-08-22","2022-08-22","2022-08-22","2022-08-22","2022-08-22","2022-08-22","2022-08-22","2022-08-22","2022-08-22","2022-08-22","2022-08-22","2022-08-22","2022-08-22","2022-08-22","2022-08-22","2022-08-22","2022-08-22","2022-08-22","2022-08-26","2022-08-26","2022-08-26","2022-08-26","2022-08-26","2022-08-26","2022-08-26","2022-08-26","2022-08-26","2022-08-26","2022-08-26","2022-08-26","2022-08-26","2022-08-26","2022-08-26","2022-08-26","2022-08-26","2022-08-26","2022-08-26","2022-08-26","2022-08-26","2022-08-26","2022-08-26","2022-08-26","2022-08-26","2022-08-26","2022-08-26","2022-08-26","2022-08-26","2022-08-26","2022-08-26","2022-08-26","2022-08-26","2022-08-26","2022-08-26","2022-08-16","2022-08-16","2022-08-16","2022-08-16","2022-08-16","2022-08-16","2022-08-16","2022-08-16","2022-08-16","2022-08-16","2022-08-16","2022-08-16","2022-08-16","2022-08-16","2022-08-16","2022-08-16","2022-08-16","2022-08-16","2022-08-16","2022-08-16","2022-08-22","2022-08-22","2022-08-22","2022-08-22","2022-08-22","2022-08-22","2022-08-22","2022-08-22","2022-08-22","2022-08-22","2022-08-22","2022-08-22","2022-08-22","2022-08-22","2022-08-22","2022-08-22","2022-08-22","2022-08-22","2022-08-22","2022-08-22","2022-08-22","2022-08-22","2022-08-22","2022-08-22","2022-08-22","2022-08-22","2022-08-22","2022-08-22","2022-08-22","2022-08-22","2022-08-26","2022-08-26","2022-08-26","2022-08-26","2022-08-26","2022-08-26","2022-08-26","2022-08-26","2022-08-26","2022-08-26","2022-08-26","2022-08-26","2022-08-26","2022-08-26","2022-08-26","2022-08-26","2022-08-26","2022-08-26","2022-08-26","2022-08-26","2022-08-26","2022-08-26","2022-08-26","2022-08-26","2022-08-26","2022-08-16","2022-08-16","2022-08-16","2022-08-16","2022-08-16","2022-08-16","2022-08-16","2022-08-16","2022-08-16","2022-08-16","2022-08-16","2022-08-16","2022-08-22","2022-08-22","2022-08-22","2022-08-22","2022-08-22","2022-08-22","2022-08-22","2022-08-22","2022-08-22","2022-08-22","2022-08-26","2022-08-26","2022-08-26","2022-08-26","2022-08-26","2022-08-26","2022-08-26","2022-08-26","2022-08-26","2022-08-26","2022-08-26","2022-08-26","2022-08-26","2022-08-26","2022-08-26","2022-08-22","2022-08-22","2022-08-22","2022-08-22","2022-08-22","2022-08-26","2022-08-26","2022-08-26","2022-08-26","2022-08-26","2022-08-16","2022-08-16","2022-08-16","2022-08-16","2022-08-22","2022-08-22","2022-08-22","2022-08-22","2022-08-22","2022-08-26","2022-08-26","2022-08-26","2022-08-26","2022-08-26","2022-08-16","2022-08-16","2022-08-16","2022-08-16","2022-08-26","2022-08-26","2022-08-26","2022-08-26","2022-08-26","2022-08-26","2022-08-26","2022-08-26","2022-08-26","2022-08-26","2022-08-16","2022-08-16","2022-08-16","2022-08-16","2022-08-16","2022-08-16","2022-08-16","2022-08-16","2022-08-22","2022-08-22","2022-08-22","2022-08-22","2022-08-22","2022-08-22","2022-08-22","2022-08-22","2022-08-22","2022-08-22","2022-08-26","2022-08-26","2022-08-26","2022-08-26","2022-08-26","2022-08-26","2022-08-26","2022-08-26","2022-08-26","2022-08-26","2022-08-16","2022-08-16","2022-08-16","2022-08-16","2022-08-22","2022-08-22","2022-08-22","2022-08-22","2022-08-22","2022-08-22","2022-08-22","2022-08-22","2022-08-22","2022-08-22","2022-08-26","2022-08-26","2022-08-26","2022-08-26","2022-08-26","2022-08-16","2022-08-16","2022-08-16","2022-08-16","2022-08-22","2022-08-22","2022-08-22","2022-08-22","2022-08-22","2022-08-16","2022-08-16","2022-08-16","2022-08-16","2022-08-22","2022-08-22","2022-08-22","2022-08-22","2022-08-22","2022-08-26","2022-08-26","2022-08-26","2022-08-26","2022-08-26"],["D1_bN","D2_bN","D3_bN","D1_bN","D2_bN","D3_bN","D1_bN","D2_bN","D3_bN","D1_bN","D2_bN","D3_bN","D1_bN","D2_bN","D3_bN","D1_bN","D2_bN","D3_bN","D1_bN","D2_bN","D3_bN","D1_bN","D2_bN","D3_bN","D1_bN","D2_bN","D3_bN","D1_bN","D2_bN","D3_bN","D1_bN","D2_bN","D3_bN","D1_bN","D2_bN","D3_bN","D1_bN","D2_M","D2_bN","D3_bN","D1_bN","D2_M","D2_bN","D3_bN","D1_bN","D2_M","D2_bN","D3_bN","D1_bN","D2_M","D2_bN","D3_bN","D1_bN","D2_M","D2_bN","D3_bN","D1_bN","D2_M","D2_bN","D3_bN","D1_bN","D1_bN","D2_M","D2_M","D2_bN","D2_bN","D3_bN","D3_bN","D1_bN","D1_aN","D2_M","D2_bN","D4_bN","D1_bN","D1_aN","D2_M","D2_bN","D4_bN","D1_bN","D1_aN","D2_M","D2_bN","D4_bN","D1_bN","D1_aN","D2_M","D2_bN","D4_bN","D1_bN","D1_aN","D2_M","D2_bN","D4_bN","D1_bN","D2_M","D2_aN","D3_bN","D4_M","D1_bN","D2_M","D2_aN","D3_bN","D4_M","D1_bN","D2_M","D2_aN","D3_bN","D4_M","D1_bN","D2_M","D2_aN","D3_bN","D4_M","D1_bN","D2_M","D2_aN","D3_bN","D4_M","D1_bN","D2_M","D2_aN","D3_bN","D4_M","D1_bN","D2_M","D2_aN","D3_bN","D4_M","D1_bN","D2_M","D2_bN","D3_bN","D1_bN","D2_M","D2_bN","D3_bN","D1_bN","D2_M","D2_bN","D3_bN","D1_bN","D2_M","D2_bN","D3_bN","D1_bN","D2_M","D2_bN","D3_bN","D1_bN","D1_aN","D2_M","D2_bN","D4_bN","D1_bN","D1_aN","D2_M","D2_bN","D4_bN","D1_bN","D1_aN","D2_M","D2_bN","D4_bN","D1_bN","D1_aN","D2_M","D2_bN","D4_bN","D1_bN","D1_aN","D2_M","D2_bN","D4_bN","D1_bN","D1_aN","D2_M","D2_bN","D4_bN","D1_bN","D2_M","D2_aN","D3_bN","D4_M","D1_bN","D2_M","D2_aN","D3_bN","D4_M","D1_bN","D2_M","D2_aN","D3_bN","D4_M","D1_bN","D2_M","D2_aN","D3_bN","D4_M","D1_bN","D2_M","D2_aN","D3_bN","D4_M","D1_bN","D2_M","D2_bN","D3_bN","D1_bN","D2_M","D2_bN","D3_bN","D1_bN","D2_M","D2_bN","D3_bN","D1_bN","D1_aN","D2_M","D2_bN","D4_bN","D1_bN","D1_aN","D2_M","D2_bN","D4_bN","D1_bN","D2_M","D2_aN","D3_bN","D4_M","D1_bN","D2_M","D2_aN","D3_bN","D4_M","D1_bN","D2_M","D2_aN","D3_bN","D4_M","D1_bN","D1_aN","D2_M","D2_bN","D4_bN","D1_bN","D2_M","D2_aN","D3_bN","D4_M","D1_bN","D2_M","D2_bN","D3_bN","D1_bN","D1_aN","D2_M","D2_bN","D4_bN","D1_bN","D2_M","D2_aN","D3_bN","D4_M","D1_bN","D2_M","D2_bN","D3_bN","D1_bN","D2_M","D2_aN","D3_bN","D4_M","D1_bN","D2_M","D2_aN","D3_bN","D4_M","D1_bN","D2_M","D2_bN","D3_bN","D1_bN","D2_M","D2_bN","D3_bN","D1_bN","D1_aN","D2_M","D2_bN","D4_bN","D1_bN","D1_aN","D2_M","D2_bN","D4_bN","D1_bN","D2_M","D2_aN","D3_bN","D4_M","D1_bN","D2_M","D2_aN","D3_bN","D4_M","D1_bN","D2_M","D2_bN","D3_bN","D1_bN","D1_aN","D2_M","D2_bN","D4_bN","D1_bN","D1_aN","D2_M","D2_bN","D4_bN","D1_bN","D2_M","D2_aN","D3_bN","D4_M","D1_bN","D2_M","D2_bN","D3_bN","D1_bN","D1_aN","D2_M","D2_bN","D4_bN","D1_bN","D2_M","D2_bN","D3_bN","D1_bN","D1_aN","D2_M","D2_bN","D4_bN","D1_bN","D2_M","D2_aN","D3_bN","D4_M"],[0.6,0.92,0.98,0.58,0.76,0.88,0.8,0.8,0.82,0.62,0.7,0.74,0.36,0.78,0.88,0.52,0.92,0.94,0.22,0.58,0.72,0.64,0.7,0.76,0.92,0.96,1,0.6,0.74,0.82,0.7,0.775,0.775,0.96,0.96,0.98,0.59,0.64,0.74,0.76,0.6,0.6,0.86,0.88,0.06,0.33,0.62,0.74,0.2,0.28,0.44,0.46,0.65,0.85,0.87,0.87,0.06,0.58,0.87,0.87,0.04,0.04,0.33,0.33,0.44,0.44,0.53,0.53,0.28,0.64,0.7,0.7,0.76,0.4,0.64,0.66,0.7,0.78,0.58,0.92,0.94,0.96,1,0.22,0.74,0.84,0.84,0.86,0.88,1.08,1.14,1.14,1.14,0.73,0.85,0.87,0.85,0.85,0.76,0.86,0.9,0.86,0.86,0.5,0.56,0.62,0.62,0.64,0.08,0.68,0.82,0.68,0.74,0.22,0.74,0.8,0.76,0.76,0,0.42,0.48,0.52,0.6,0.82,0.88,0.88,0.92,0.92,0.44,0.58,0.6,0.64,0.14,0.5,0.62,0.74,0.44,0.44,0.72,0.72,0.34,0.36,0.68,0.82,0.5,0.56,0.82,0.82,0.19,0.59,0.69,0.71,0.71,0.36,0.68,0.76,0.86,0.86,0.45,0.61,0.67,0.77,0.79,0.8,0.9,0.9,0.92,0.96,0.3,0.36,0.36,0.36,0.38,0.57,0.75,0.77,0.77,0.77,0.26,0.84,0.84,0.88,0.88,0.36,0.84,0.94,0.88,0.88,0.16,0.66,0.72,0.72,0.74,0.16,0.42,0.72,0.54,0.6,0.04,0.66,0.8,0.74,0.74,0.02,0.18,0.28,0.42,0.41,0.45,0.57,0.63,0.48,0.7,0.7,0.88,0.44,0.44,0.68,0.68,0.82,0.42,0.8,0.8,0.82,0.82,0.16,0.78,0.78,0.8,0.82,0.2,0.88,0.92,0.88,0.88,0.9,1.02,1.02,1.02,1.02,0.28,0.62,0.64,0.68,0.68,0.54,0.62,0.68,0.66,0.66,0.4,0.5,0.62,0.72,0.6,0.72,0.94,0.96,0.96,0.94,0.96,0.96,0.96,0.96,0.34,0.58,0.58,0.6,0,0.19,0.19,0.28,0.28,0.38,0.72,0.76,0.74,0.74,0.12,0.42,0.78,0.82,0,0,0.06,0.1,0.56,0.88,0.9,0.92,0.92,0.04,0.32,0.32,0.36,0.4,0.7,0.88,0.94,0.9,0.9,0.12,0.48,0.56,0.54,0.64,0.04,0.22,0.8,0.8,0.22,0.22,0.32,0.42,0.42,0.07,0.41,0.46,0.53,0.58,0.66,0.94,0.96,0.94,0.94,0.1,0.14,0.66,0.66,0,0.42,0.74,0.76,0.76,0.04,0.1,0.32,0.32,0.08,0.34,0.58,0.62,0.64,0.82,0.86,0.9,0.9,0.9],[0.02,0.03,0.03,0.01,0.02,0.02,0.04,0.04,0.04,0.02,0.02,0.02,0.01,0.03,0.04,0.02,0.04,0.04,0,0.01,0.01,0.01,0.01,0.01,0.02,0.02,0.02,0.01,0.01,0.01,0.02,0.03,0.03,0.01,0.01,0.01,0.01,0.01,0.02,0.02,0.05,0.05,0.07,0.07,0,0.01,0.02,0.03,0.01,0.01,0.02,0.02,0.01,0.01,0.01,0.01,0,0.04,0.06,0.06,0,0.01,0.01,0.07,0.01,0.09,0.01,0.11,0.04,0.08,0.09,0.09,0.1,0.02,0.03,0.03,0.03,0.04,0.01,0.02,0.02,0.02,0.02,0,0.01,0.01,0.01,0.01,0.02,0.02,0.02,0.02,0.02,0.05,0.05,0.05,0.05,0.05,0.04,0.05,0.05,0.05,0.05,0.06,0.06,0.07,0.07,0.07,0.01,0.05,0.06,0.05,0.05,0.01,0.02,0.02,0.02,0.02,0,0.06,0.07,0.07,0.09,0.02,0.02,0.02,0.02,0.02,0.01,0.01,0.01,0.01,0,0.02,0.02,0.02,0.01,0.01,0.02,0.02,0.01,0.01,0.01,0.02,0.01,0.01,0.02,0.02,0.01,0.02,0.02,0.02,0.02,0.01,0.02,0.02,0.03,0.03,0,0,0.01,0.01,0.01,0.01,0.01,0.01,0.01,0.01,0,0,0,0,0,0.03,0.04,0.05,0.05,0.05,0,0.01,0.01,0.01,0.01,0.01,0.02,0.02,0.02,0.02,0.01,0.03,0.04,0.04,0.04,0,0,0.01,0,0.01,0,0.02,0.02,0.02,0.02,0,0,0,0.01,0,0,0.01,0.01,0,0.01,0.01,0.01,0.01,0.01,0.01,0.01,0.01,0,0.01,0.01,0.01,0.01,0,0.01,0.01,0.01,0.01,0,0.02,0.02,0.02,0.02,0.01,0.01,0.01,0.01,0.01,0,0.01,0.01,0.01,0.01,0.01,0.01,0.01,0.01,0.01,0.01,0.01,0.01,0.01,0.01,0.01,0.02,0.02,0.02,0.01,0.01,0.01,0.01,0.01,0,0.01,0.01,0.01,0,0.02,0.02,0.03,0.03,0.01,0.03,0.03,0.03,0.03,0.01,0.02,0.04,0.04,0,0,0,0.01,0.01,0.02,0.02,0.02,0.02,0,0.04,0.04,0.04,0.05,0.03,0.04,0.04,0.04,0.04,0.02,0.07,0.08,0.08,0.09,0,0.01,0.02,0.02,0.04,0.04,0.05,0.07,0.07,0,0.01,0.01,0.01,0.01,0.01,0.01,0.01,0.01,0.01,0,0,0.02,0.02,0,0.02,0.03,0.03,0.03,0,0,0,0,0,0.01,0.01,0.01,0.02,0.04,0.05,0.05,0.05,0.05]],"container":"<table class=\"display\">\n  <thead>\n    <tr>\n      <th>colonyID<\/th>\n      <th>age_obs<\/th>\n      <th>bead_color<\/th>\n      <th>date<\/th>\n      <th>counted_when<\/th>\n      <th>cum_prop<\/th>\n      <th>s_cum_prop<\/th>\n    <\/tr>\n  <\/thead>\n<\/table>","options":{"columnDefs":[{"className":"dt-right","targets":[1,5,6]}],"order":[],"autoWidth":false,"orderClasses":false}},"evals":[],"jsHooks":[]}</script>
 </div>
 
 
